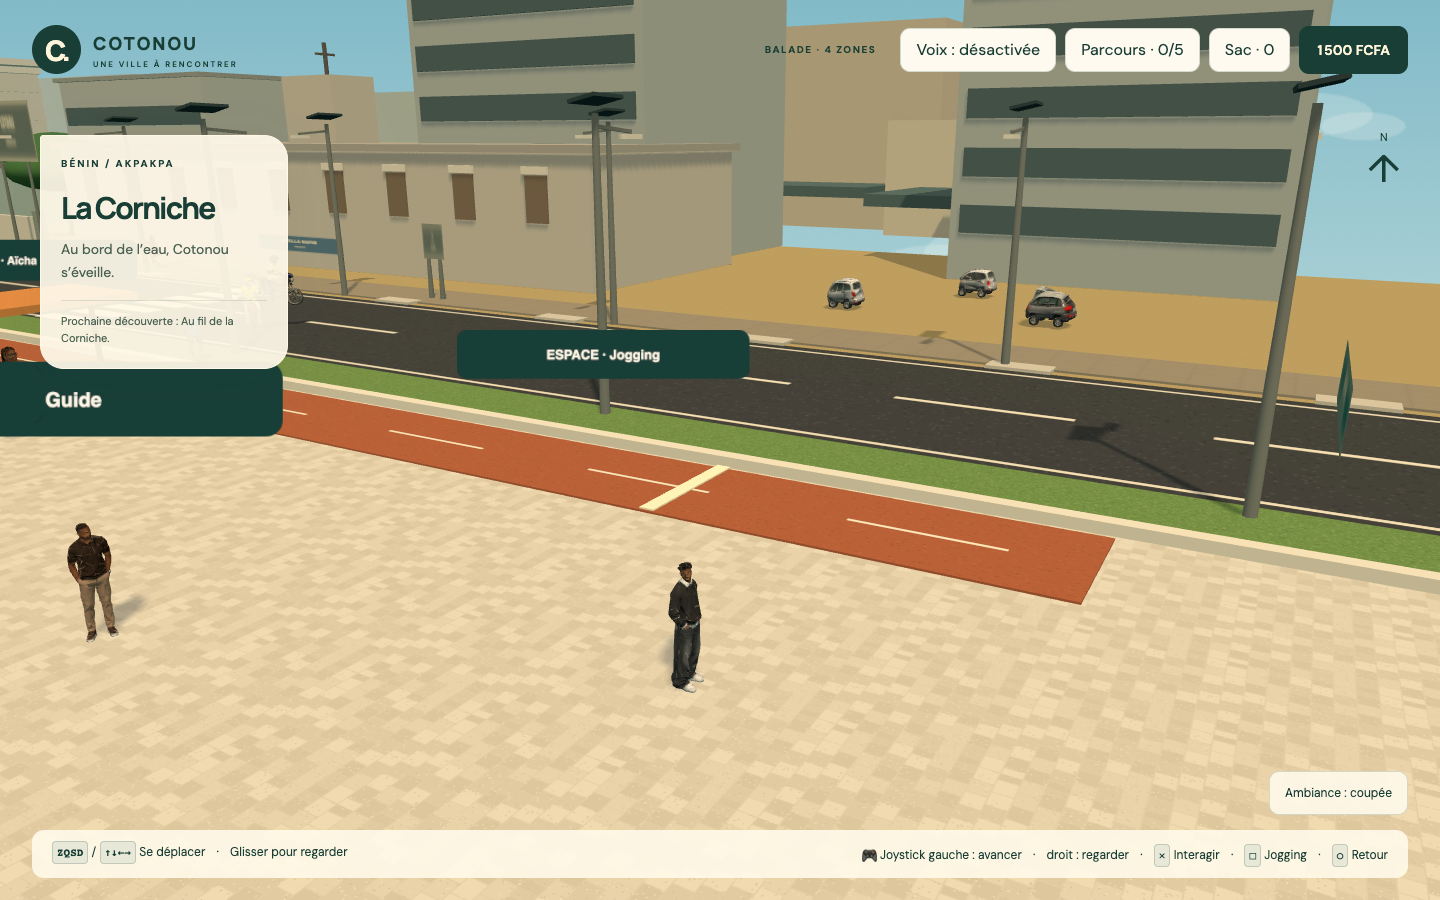
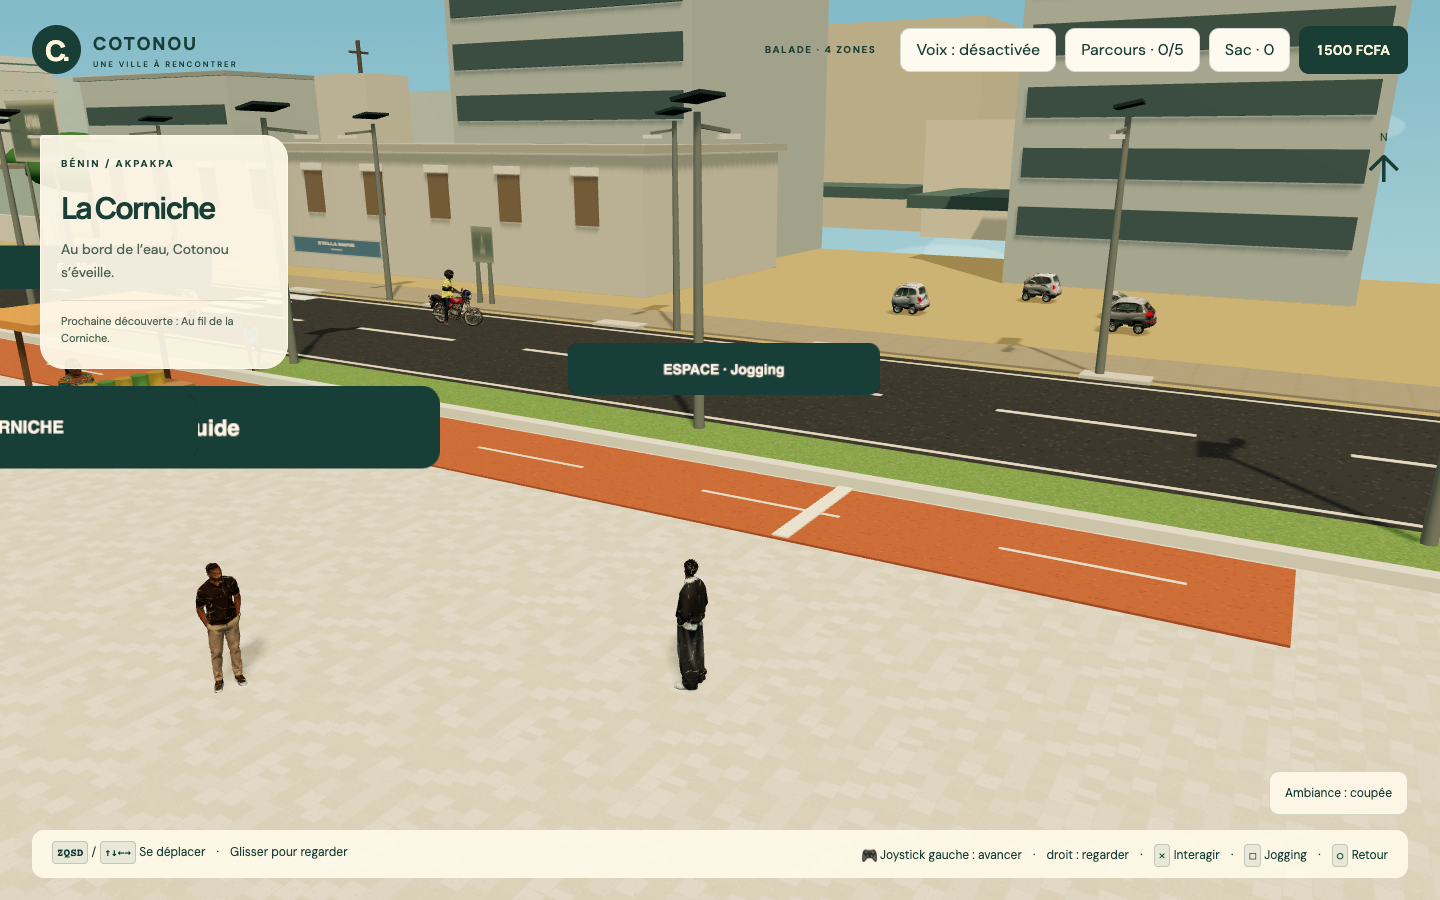
feat: add urban life animations with VieUrbaine class and integrate into Monde

diff --git a/src/entities/VieUrbaine.ts b/src/entities/VieUrbaine.ts
@@ -1,0 +1,96 @@
+import * as T from 'three';
+
+type ModeDeplacement = 'zemidjan'|'voiture'|null;
+type Oiseaux = {groupe:T.Group;geometrie:T.BufferGeometry;repos:Float32Array;phase:number};
+type ElementVent = {objet:T.Object3D;rotationX:number;rotationZ:number;phase:number};
+type Grain = {vie:number;x:number;y:number;z:number;vx:number;vy:number;vz:number};
+
+/**
+ * Petits mouvements d'ambiance qui donnent de la continuité à la ville sans
+ * charger des modèles supplémentaires : oiseaux, poussière et souffle du vent.
+ */
+export class VieUrbaine {
+  private temps=0;
+  private emission=0;
+  private readonly grains:Grain[]=[];
+  private readonly positions=new Float32Array(72*3);
+  private readonly poussiere:T.Points;
+  private readonly oiseaux:Oiseaux[]=[];
+  private readonly vent:ElementVent[]=[];
+
+  constructor(private readonly scene:T.Object3D){
+    const groupe=new T.Group();groupe.name='vie-urbaine';scene.add(groupe);
+    this.positions.fill(-1000);
+    const geometrie=new T.BufferGeometry();geometrie.setAttribute('position',new T.BufferAttribute(this.positions,3));
+    const toile=document.createElement('canvas');toile.width=toile.height=64;
+    const c=toile.getContext('2d')!,degrade=c.createRadialGradient(32,32,2,32,32,30);
+    degrade.addColorStop(0,'rgba(244,220,174,.72)');degrade.addColorStop(1,'rgba(205,174,125,0)');
+    c.fillStyle=degrade;c.fillRect(0,0,64,64);
+    const carte=new T.CanvasTexture(toile);carte.colorSpace=T.SRGBColorSpace;
+    this.poussiere=new T.Points(geometrie,new T.PointsMaterial({map:carte,color:'#ead4a9',size:.42,transparent:true,opacity:.42,depthWrite:false,sizeAttenuation:true}));
+    this.poussiere.name='poussiere-deplacement';this.poussiere.frustumCulled=false;groupe.add(this.poussiere);
+    for(let i=0;i<3;i++)this.creerVolee(groupe,i);
+    scene.traverse(objet=>{
+      if(objet.name==='palmes'||objet.name==='toile-drapeau'||objet.name.startsWith('nuage-3d-'))
+        this.vent.push({objet,rotationX:objet.rotation.x,rotationZ:objet.rotation.z,phase:this.vent.length*1.37});
+    });
+  }
+
+  private creerVolee(parent:T.Object3D,index:number){
+    const positions:number[]=[];
+    for(let i=0;i<9;i++){
+      const colonne=i%5,ligne=Math.floor(i/5),x=(colonne-2)*2.2+(ligne?1.1:0),z=ligne*2.3+Math.abs(colonne-2)*.65;
+      positions.push(x-.42,0,z,x,.13,z, x,.13,z,x+.42,0,z);
+    }
+    const repos=new Float32Array(positions),geometrie=new T.BufferGeometry();
+    geometrie.setAttribute('position',new T.BufferAttribute(new Float32Array(positions),3));
+    const trait=new T.LineBasicMaterial({color:'#243a38',transparent:true,opacity:.72,fog:true});
+    const lignes=new T.LineSegments(geometrie,trait),groupe=new T.Group();
+    groupe.name=`oiseaux-ville-${index+1}`;groupe.add(lignes);groupe.scale.setScalar(1.15+index*.12);parent.add(groupe);
+    this.oiseaux.push({groupe,geometrie,repos,phase:index*2.1});
+  }
+
+  /** Anime le décor autour de la position actuelle pour qu'il reste visible sur toute la carte. */
+  actualiser(dt:number,joueur:T.Object3D,enMouvement:boolean,mode:ModeDeplacement,course:boolean){
+    this.temps+=dt;
+    const vitesse=enMouvement?(mode==='voiture'?18:mode==='zemidjan'?12:course?7:4):0;
+    this.emission+=dt*(mode?vitesse*1.15:course?9:enMouvement?4.5:0);
+    while(this.emission>=1){this.emission--;this.emettre(joueur,mode);}
+    this.animerPoussiere(dt);
+    for(const [i,volee] of this.oiseaux.entries()){
+      const cycle=(this.temps*(5.5+i*.7)+volee.phase*23)%125;
+      volee.groupe.position.set(joueur.position.x-62+cycle,24+i*5+Math.sin(this.temps*.45+volee.phase)*2,joueur.position.z-42-i*18);
+      volee.groupe.rotation.y=.12*Math.sin(this.temps*.24+volee.phase);
+      const attr=volee.geometrie.getAttribute('position') as T.BufferAttribute,tableau=attr.array as Float32Array;
+      tableau.set(volee.repos);
+      const battement=Math.sin(this.temps*7.5+volee.phase)*.17;
+      for(let p=1;p<tableau.length;p+=6)tableau[p]+=battement;
+      for(let p=7;p<tableau.length;p+=12)tableau[p]-=battement;
+      attr.needsUpdate=true;
+    }
+    for(const element of this.vent){
+      const souffle=Math.sin(this.temps*1.8+element.phase)+.35*Math.sin(this.temps*4.1+element.phase*.7);
+      element.objet.rotation.x=element.rotationX+souffle*.018;
+      element.objet.rotation.z=element.rotationZ+souffle*(element.objet.name==='toile-drapeau'?.055:.025);
+    }
+  }
+
+  private emettre(joueur:T.Object3D,mode:ModeDeplacement){
+    if(this.grains.length>=72)this.grains.shift();
+    const a=Math.random()*Math.PI*2,r=Math.random()*(mode?1.05:.42),direction=joueur.rotation.y;
+    this.grains.push({vie:.5+Math.random()*.65,x:joueur.position.x+Math.cos(a)*r,y:.12,z:joueur.position.z+Math.sin(a)*r,
+      vx:-Math.sin(direction)*(.12+Math.random()*.18)+(Math.random()-.5)*.16,vy:.18+Math.random()*.2,
+      vz:-Math.cos(direction)*(.12+Math.random()*.18)+(Math.random()-.5)*.16});
+  }
+
+  private animerPoussiere(dt:number){
+    for(let i=this.grains.length-1;i>=0;i--){
+      const g=this.grains[i];g.vie-=dt;
+      if(g.vie<=0){this.grains.splice(i,1);continue;}
+      g.x+=g.vx*dt;g.y+=g.vy*dt;g.z+=g.vz*dt;
+    }
+    this.positions.fill(-1000);
+    this.grains.forEach((g,i)=>{this.positions[i*3]=g.x;this.positions[i*3+1]=g.y;this.positions[i*3+2]=g.z;});
+    (this.poussiere.geometry.getAttribute('position') as T.BufferAttribute).needsUpdate=true;
+  }
+}

diff --git a/src/world.ts b/src/world.ts
@@ -6,6 +6,7 @@ import { boulevard, corniche, esplanadeAmazone, citeMinisterielle, palaisMarina,
 import { chargerModeles, type Pose } from './entities/Modeles';
 import { Foule } from './entities/Foule';
 import { MerAnimee } from './entities/MerAnimee';
+import { VieUrbaine } from './entities/VieUrbaine';
 
 /**
  * Modèles détaillés posés sur la scène. Chacun remplace son ensemble construit
@@ -37,6 +38,7 @@ export class Monde {
   private readonly rues: Rues;
   private readonly foule = new Foule(this.scene);
   private readonly mer: MerAnimee;
+  private readonly vie: VieUrbaine;
   private passagerMoto?: T.Group;
   private accident=0;
   onAccident?:(type:'vehicule'|'personnage')=>void;
@@ -82,7 +84,9 @@ export class Monde {
     const textureCiel=new T.CanvasTexture(ciel);textureCiel.colorSpace=T.SRGBColorSpace;
     this.scene.background=textureCiel;this.scene.fog=new T.Fog('#d1dfd5',75,215);
     this.renderer=new T.WebGLRenderer({antialias:true});this.renderer.setSize(innerWidth,innerHeight);
-    this.renderer.setPixelRatio(Math.min(devicePixelRatio,1.5));this.renderer.shadowMap.enabled=true;this.renderer.shadowMap.type=T.PCFSoftShadowMap;
+    this.renderer.setPixelRatio(Math.min(devicePixelRatio,1.5));this.renderer.outputColorSpace=T.SRGBColorSpace;
+    this.renderer.toneMapping=T.ACESFilmicToneMapping;this.renderer.toneMappingExposure=1.08;
+    this.renderer.shadowMap.enabled=true;this.renderer.shadowMap.type=T.PCFSoftShadowMap;
     host.append(this.renderer.domElement);this.renderer.domElement.setAttribute('aria-label','Balade 3D dans quatre zones de Cotonou');
     this.scene.add(new T.HemisphereLight('#fff5dd','#648979',1.9));
     this.soleil.castShadow=true;this.soleil.shadow.mapSize.set(2048,2048);this.soleil.shadow.bias=-.0006;
@@ -93,6 +97,7 @@ export class Monde {
     boulevard(batisseur);this.mer=corniche(batisseur);esplanadeAmazone(batisseur);citeMinisterielle(batisseur);
     palaisMarina(batisseur);palaisCongres(batisseur);etoileRouge(batisseur);
     this.rues=new Rues(batisseur);figures(batisseur);
+    this.vie=new VieUrbaine(this.scene);
     // La scène construite s’affiche tout de suite ; les modèles la remplacent dès qu’ils arrivent.
     const poses:Pose[]=[...POSES,{
       groupe:'kekenon-circulation',fichier:'kekenon.glb',x:13.6,z:18,
@@ -194,7 +199,7 @@ export class Monde {
         if(choc&&this.rues.accidenterVehicule(vehicule.objet)&&choc.position.distanceTo(this.player.position)<28)this.onAccident?.('personnage');
       }
       if(this.accident>0)this.accident=Math.max(0,this.accident-dt);
-      if(!state.paused){this.foule.actualiser(dt);this.mer.actualiser(dt);}
+      if(!state.paused){this.foule.actualiser(dt);this.mer.actualiser(dt);this.vie.actualiser(dt,this.player,mouvement.moving,state.transport,state.running);}
       // Les deux modèles détaillés embarquent leur propre conducteur : le personnage
       // en boîtes s'effacerait sinon derrière lui, ou se superposerait au pilote.
       this.player.visible=!state.transport;
@@ -215,6 +220,11 @@ export class Monde {
       // et le sommet des monuments, hauts de vingt-cinq à trente-cinq mètres.
       const recul=12,hauteur=2.4+Math.max(0,-this.pitch)*10;
       desired.set(target.x+Math.sin(this.yaw)*recul,target.y+hauteur,target.z+Math.cos(this.yaw)*recul);
+      // Champ de vision et mouvement de caméra progressifs selon l'allure.
+      const fovCible=mouvement.moving?(state.transport==='voiture'?58:state.transport==='zemidjan'?55:state.running?52:49):48;
+      this.camera.fov=T.MathUtils.lerp(this.camera.fov,fovCible,1-Math.exp(-dt*3.8));this.camera.updateProjectionMatrix();
+      if(mouvement.moving&&!state.transport){const cadence=state.running?12:8,ampleur=state.running?.1:.045;desired.y+=Math.sin(time/1000*cadence)*ampleur;desired.x+=Math.cos(time/1000*cadence*.5)*ampleur*.32;}
+      if(this.accident>0){const force=Math.min(1,this.accident/.45)*Math.min(1,(2.7-this.accident)/.12);desired.x+=Math.sin(time*.075)*.2*force;desired.y+=Math.cos(time*.09)*.12*force;}
       this.camera.position.lerp(desired,1-Math.exp(-dt*6));
       regard.set(-Math.sin(this.yaw)*Math.cos(this.pitch),Math.sin(this.pitch),-Math.cos(this.yaw)*Math.cos(this.pitch))
         .multiplyScalar(25).add(this.camera.position);

diff --git a/src/entities/Batisseur.ts b/src/entities/Batisseur.ts
@@ -278,7 +278,8 @@ export class Batisseur {
     const g = new T.Group(); g.position.set(x, 0, z); g.rotation.y = v * 6.3; this.racine.add(g);
     const tronc = this.cyl(.19, .3, h, 8, '#9e8865', 0, h / 2, 0, g);
     tronc.rotation.z = (v - .5) * .16;
-    this.maillage(this.frondaison(9, 3.7, 2.5, .42), this.mat('#4b7d4a', {face2: true}), (v - .5) * .5, h - .1, 0, g);
+    const palmes=this.maillage(this.frondaison(9, 3.7, 2.5, .42), this.mat('#4b7d4a', {face2: true}), (v - .5) * .5, h - .1, 0, g);
+    palmes.name='palmes';
     this.sphere(.22, '#7d9440', .1, h - .55, .14, g).scale.set(1.4, .75, 1.4);
     if (fosse) { const f = this.boite(1.7, .1, 1.7, '#8d8677', 0, .06, 0, g); f.castShadow = false; }
     this.obstacle(x, z, 1, 1);
@@ -289,7 +290,8 @@ export class Batisseur {
     const h = 11 + varie(x, z) * 2;
     const g = new T.Group(); g.position.set(x, 0, z); g.rotation.y = varie(z, x) * 6.3; this.racine.add(g);
     this.cyl(.28, .42, h, 8, '#b9b1a0', 0, h / 2, 0, g);
-    this.maillage(this.frondaison(11, 3.2, 2.9, .36), this.mat('#39663d', {face2: true}), 0, h - .1, 0, g);
+    const palmes=this.maillage(this.frondaison(11, 3.2, 2.9, .36), this.mat('#39663d', {face2: true}), 0, h - .1, 0, g);
+    palmes.name='palmes';
     return g;
   }
   /** Arbre à couronne étalée des places de Cotonou. */
@@ -348,7 +350,7 @@ export class Batisseur {
     const g = new T.Group(); g.position.set(x, 0, z); this.racine.add(g);
     this.cyl(.07, .1, h, 8, '#e8e4d6', 0, h / 2, 0, g);
     const toile = this.maillage(this.geo('pl2.2,1.4', () => new T.PlaneGeometry(2.2, 1.4)), this.tex('drapeau', 1, 1, '#ffffff', {face2: true}), 0, h - 1.1, 1.15, g);
-    toile.rotation.y = -Math.PI / 2; toile.castShadow = false;
+    toile.name='toile-drapeau';toile.rotation.y = -Math.PI / 2; toile.castShadow = false;
     return g;
   }
   /** Bloc rocheux irregulier, oriente au hasard mais de facon reproductible. */

diff --git a/tests/rues.spec.ts b/tests/rues.spec.ts
@@ -6,6 +6,11 @@ test('rues habitées : circulation, pause, son facultatif et captures',async({pa
  await page.goto('/');await page.getByRole('button',{name:'Commencer la balade'}).click();
  await expect(page.locator('#ambiance')).toHaveAttribute('aria-pressed','false');
  await expect.poll(()=>page.evaluate(()=>!!(window as any).__scenes.find((s:any)=>s.getObjectByName('joueur'))?.getObjectByName('rue-commerce-0'))).toBe(true);
+ await expect.poll(()=>page.evaluate(()=>!!(window as any).__scenes.find((s:any)=>s.getObjectByName('joueur'))?.getObjectByName('vie-urbaine'))).toBe(true);
+ const oiseauX=()=>page.evaluate(()=>{const s=(window as any).__scenes.find((v:any)=>v.getObjectByName('joueur'));return s.getObjectByName('oiseaux-ville-1').position.x;});
+ const oiseauAvant=await oiseauX();await expect.poll(oiseauX).not.toBe(oiseauAvant);
+ await page.keyboard.down('z');await page.waitForTimeout(700);await page.keyboard.up('z');
+ await expect.poll(()=>page.evaluate(()=>{const s=(window as any).__scenes.find((v:any)=>v.getObjectByName('joueur'));const a=s.getObjectByName('poussiere-deplacement').geometry.attributes.position.array;return Array.from(a).some((v:any)=>v>-500);})).toBe(true);
  const z=()=>page.evaluate(()=>{const s=(window as any).__scenes.find((v:any)=>v.getObjectByName('joueur'));return s.getObjectByName('circulation-1').position.z;});
  const before=await z();await expect.poll(z).not.toBe(before);
  await expect.poll(()=>page.evaluate(()=>{const s=(window as any).__scenes.find((v:any)=>v.getObjectByName('joueur'));return !!s?.getObjectByName('circulation-1')?.getObjectByName('vehicule-modele');}),{timeout:60000}).toBe(true);

diff --git a/src/entities/Monuments.ts b/src/entities/Monuments.ts
@@ -53,8 +53,8 @@ function horizonUrbain(b: Batisseur) {
   }
   // Nuages très légers : ils donnent de la profondeur au ciel sans masquer les monuments.
   const nuage=b.mat('#fffaf0',{transparent:.36,face2:true});
-  for(const [x,y,z,s] of [[-34,39,-34,7],[48,46,-118,9],[-52,43,-222,8],[55,40,-330,7],[-28,48,-430,10]] as const){
-    const g=new T.Group();g.position.set(x,y,z);b.racine.add(g);
+  for(const [index,[x,y,z,s]] of [[-34,39,-34,7],[48,46,-118,9],[-52,43,-222,8],[55,40,-330,7],[-28,48,-430,10]].entries()){
+    const g=new T.Group();g.name=`nuage-3d-${index+1}`;g.position.set(x,y,z);b.racine.add(g);
     for(const [dx,dy,e] of [[-1.2,0,.8],[0,.35,1],[1.35,.05,.72]] as const){
       const m=b.sphere(1,nuage,dx*s*.18,dy*s*.12,0,g);m.scale.set(s*.42,s*.13,s*.2);m.castShadow=false;m.receiveShadow=false;
     }

diff --git a/README.md b/README.md
@@ -134,6 +134,11 @@ Le sol et la chaussée continuent au-delà des limites jouables afin que les vé
 jamais en bout de carte. Des volumes d'immeubles lointains, des nuages légers et un ciel en
 dégradé ferment la perspective lorsque la caméra regarde hors des quatre zones détaillées.
 
+Une passe d'ambiance anime aussi la ville : oiseaux en mouvement, poussière sous les pas et les
+véhicules, palmes, drapeaux et nuages sensibles au vent. Le rendu utilise une courbe de couleur
+cinéma. La caméra élargit progressivement son champ avec la vitesse, accompagne les pas et réagit
+aux collisions, sans ajouter de post-traitement lourd pour les ordinateurs moins puissants.
+
 Les quinze fichiers actifs optimisés tiennent en environ 15,7 MiB. Le détail de la chaîne, le tableau des modèles et la raison
 pour laquelle celui de l’Étoile Rouge a été écarté sont dans [docs/MESHY.md](docs/MESHY.md).
 
